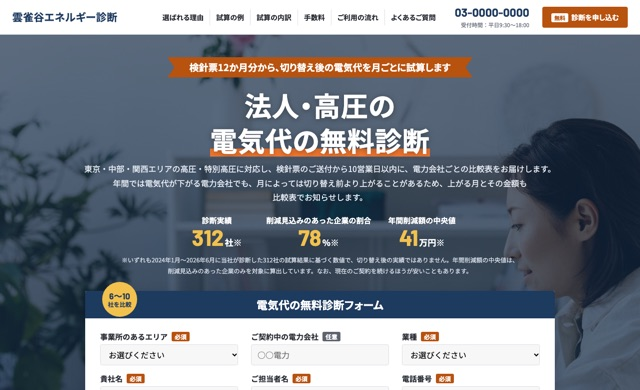
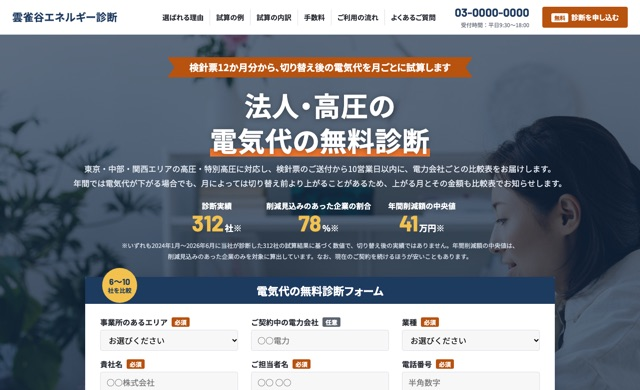
見本LP7案で、通読で引っかかった文を直す

diff --git a/lp-samples/sample8/index.html b/lp-samples/sample8/index.html
@@ -423,7 +423,7 @@ h1,h2,h3,p,li,dt,dd,summary{word-break:auto-phrase}
   <div class="mv-inner">
     <p class="catch">検針票<span class="nw">12か月</span>分から、<br class="pcnone"><span class="nw">切り替え</span>後の電気代を月ごとに試算します</p>
     <h1>法人・高圧の<br><span class="text-line">電気代の無料診断</span></h1>
-    <p class="lead">東京・中部・関西<span class="nw">エリア</span>の高圧・特別高圧に対応し、検針票のご送付から<span class="nw">10営業日</span>以内に、電力会社ごとの比較表をお届けします。<br class="smanone">年間では電気代が下がる電力会社でも、月によっては<span class="nw">切り替え</span>前より上がることがあるため、上がる月とその金額も比較表でお知らせします。</p>
+    <p class="lead">東京・中部・関西<span class="nw">エリア</span>の高圧・特別高圧に対応し、検針票のご送付から<span class="nw">10営業日</span>以内に、電力会社ごとの比較表をお届けします。<br class="smanone">年間では電気代が下がる場合でも、月によっては<span class="nw">切り替え</span>前より上がることがあるため、上がる月とその金額も比較表でお知らせします。</p>
     <ul class="mv-rewards">
       <li><p>診断実績<b>312<small>社※</small></b></p></li>
       <li><p>削減見込みのあった企業の割合<b>78<small>%※</small></b></p></li>
@@ -462,11 +462,11 @@ h1,h2,h3,p,li,dt,dd,summary{word-break:auto-phrase}
 <section class="topPage-about" id="about">
   <div class="section-container">
     <h2 class="title-base"><i class="fa-solid fa-bolt" aria-hidden="true"></i>雲雀谷エネルギー診断とは？</h2>
-    <p class="topPage-about-sentence">過去の検針票をもとに、法人の高圧・特別高圧の電気代を診断する会社です。<span class="nw">切り替え</span>た場合に月々の電気代がどう変わるかを、電力会社ごとに比較表で見比べて、使用状況に合った電力会社をお選びいただけます。</p>
+    <p class="topPage-about-sentence">過去の検針票をもとに、法人の高圧・特別高圧の電気代を診断する会社です。<span class="nw">切り替え</span>た場合に月々の電気代がどう変わるかを電力会社ごとに比較表でお示ししますので、使用状況に合った電力会社をお選びいただけます。</p>
     <p class="topPage-about-subTitle wow fadeInUp">料金体系は電力会社ごとに異なるため、<br class="pcnone">当社が同じ条件で各社の電気代を試算し、比較します。</p>
     <div class="topPage-about-mainContent">
       <div class="topPage-about-mainImg is-left wow fadeInUp">
-        <h3>ご自身で各社に問い合わせる場合</h3>
+        <h3>貴社で各社に問い合わせる場合</h3>
         <div class="step-block" role="img" aria-label="貴社が3社の電力会社へ1社ずつ問い合わせる図">
           <div class="step-block__cont">
             <p class="step-block__cont__item"><i class="fa-solid fa-building" aria-hidden="true"></i>貴社</p>
@@ -512,7 +512,7 @@ h1,h2,h3,p,li,dt,dd,summary{word-break:auto-phrase}
       <div>
         <p class="topPage-reason-contents-titlePoints">Point<b>02</b></p>
         <h3 class="topPage-reason-contents-title">当社の手数料率も公開</h3>
-        <p>当社は<span class="nw">切り替え</span>先の電力会社から手数料を受け取る仕組みのため、貴社のご負担はありません。「手数料の高い会社を勧められるのでは」とご心配な方は、比較表に掲載する各社の手数料率でご確認いただけます。電力会社の並び順も、手数料率ではなく年間の削減額が大きい順にしています。手数料率と上限額は「<a class="nw" href="#fee">手数料について</a>」に記載しています。</p>
+        <p>当社は<span class="nw">切り替え</span>先の電力会社から手数料を受け取る仕組みのため、貴社のご負担はありません。「手数料の高い会社を勧められるのでは」とご心配な方は、比較表に掲載する各社の手数料率をご確認いただけます。電力会社の並び順も、手数料率ではなく年間の削減額が大きい順にしています。手数料率と上限額は「<a class="nw" href="#fee">手数料について</a>」に記載しています。</p>
       </div>
       <figure><img src="img/sheet.jpg" alt="数字の並ぶ表をペンで指す手元と電卓" loading="lazy"></figure>
     </div>
@@ -763,9 +763,9 @@ h1,h2,h3,p,li,dt,dd,summary{word-break:auto-phrase}
       <details class="wow fadeInUp"><summary class="toggle_title">停電の心配はありますか？</summary><p class="faq_text">電力会社を<span class="nw">切り替え</span>ても、停電が起こりやすくなることはありません。送配電はこれまで通り地域の一般送配電事業者（電柱や送電線を管理する会社）が行うため、電気の品質や供給の安定性は変わりません。</p></details>
       <details class="wow fadeInUp"><summary class="toggle_title">電力会社の営業電話はありますか？</summary><p class="faq_text">電力会社から営業の電話がかかってくることはありません。貴社名とご連絡先を電力会社に伝えるのは、ご契約が決まったあとだけです。当社からの最初のご連絡は、お申し込みの翌営業日中にお送りする<span class="nw">メール</span>です。</p></details>
       <details class="wow fadeInUp"><summary class="toggle_title">提携先の電力会社はどこですか？</summary><p class="faq_text">各社との取り決めにより、<span class="nw">ウェブサイト</span>での社名の公表は控えていますが、比較表でお知らせします。提携先は<span class="nw">2026年8月</span>時点で<span class="nw">12社</span>あり、新電力が中心ですが、大手電力会社も含まれます。このうち、事業所のあるエリアで電気を販売し、貴社の契約電力で契約できる会社を比較します。</p></details>
-      <details class="wow fadeInUp"><summary class="toggle_title">希望の電力会社も比較できますか？</summary><p class="faq_text">当社の提携先のうち、貴社の事業所のあるエリアで高圧・特別高圧の契約を受け付けている会社であれば、比較に加えられます。ご希望の会社は、検針票をお送りいただく際にお知らせください。当社との提携の有無をお伝えします。</p></details>
+      <details class="wow fadeInUp"><summary class="toggle_title">希望の電力会社も比較できますか？</summary><p class="faq_text">当社の提携先のうち、貴社の事業所のあるエリアで高圧・特別高圧の契約を受け付けている会社であれば、比較対象に加えることができます。ご希望の会社は、検針票をお送りいただく際にお知らせください。当社との提携の有無を<span class="nw">お伝えします。</span></p></details>
       <details class="wow fadeInUp"><summary class="toggle_title">契約期間中でも試算できますか？</summary><p class="faq_text">はい、可能です。検針票と併せて、現在のご契約の期間と解約の条件が分かる書面をお送りください。途中で解約すると違約金がかかるご契約の場合は、その額を比較表に記載します。契約が満了する月に合わせて<span class="nw">切り替え</span>た場合の金額も、比較表でご確認いただけます。</p></details>
-      <details class="wow fadeInUp"><summary class="toggle_title"><span class="nw">デマンド</span>対策の効果はどのくらいですか？</summary><p class="faq_text">製造業の例では、<span class="nw">切り替え</span>前の基本料金が契約電力<span class="nw">1kW</span>あたり年間<span class="nw">約2万円</span>なので、契約電力が<span class="nw">10kW</span>下がると基本料金は年間<span class="nw">約20万円</span>安くなります。電気代に占める基本料金の割合が大きい事業所では、最大<span class="nw">デマンドを</span>抑えるだけでも電気代が下がります。ただし、<span class="nw">30分</span>間の平均使用電力が一度でも跳ね上がると、その値で<span class="nw">1年</span>間の基本料金が決まります。最大<span class="nw">デマンドを</span><span class="nw">1年</span>を通して抑えられる見込みがあれば、<span class="nw">デマンド</span>対策もあわせてご検討ください。</p></details>
+      <details class="wow fadeInUp"><summary class="toggle_title"><span class="nw">デマンド</span>対策の効果はどのくらいですか？</summary><p class="faq_text">製造業の例では、<span class="nw">切り替え</span>前の基本料金が契約電力<span class="nw">1kW</span>あたり年間<span class="nw">約2万円</span>なので、契約電力が<span class="nw">10kW</span>下がると基本料金は年間<span class="nw">約20万円</span>安くなります。電気代に占める基本料金の割合が大きい事業所では、最大<span class="nw">デマンドを</span>抑えるだけでも電気代が下がります。ただし、<span class="nw">30分</span>間の平均使用電力が一度でも跳ね上がると、その値で<span class="nw">1年</span>間の基本料金が決まります。<span class="nw">1年</span>を通して最大<span class="nw">デマンドを</span>抑えられる見込みがあれば、<span class="nw">デマンド</span>対策もあわせてご検討ください。</p></details>
       <details class="wow fadeInUp"><summary class="toggle_title">市場連動型の<span class="nw">プラン</span>も比較しますか？</summary><p class="faq_text">電気を多く使う時間帯によって判断します。市場連動型は卸電力市場の価格に合わせて単価が変わる<span class="nw">プラン</span>で、市場価格が高騰した月は電気代が高額になる<span class="nw">リスク</span>があります。深夜と早朝に電気を多く使う事業所であれば比較対象に含めますが、夕方に<span class="nw">ピーク</span>が来る事業所では電気代の振れ幅が大きくなるため含めません。比較対象に含める場合は、過去に市場価格が高騰した月の単価でも計算し、その金額も比較表に掲載します。</p></details>
       <details class="wow fadeInUp"><summary class="toggle_title">契約の内容は書面でもらえますか？</summary><p class="faq_text">はい。契約の締結前と締結後に、料金や契約期間を記した書面をお渡しします。書面の交付は、電気事業法（第2条の13・第2条の14）で、電力会社（小売電気事業者）と媒介を行う当社の双方に義務付けられています。書面は、経済産業省「電力の小売営業に関する指針」（令和<span class="nw">8年</span><span class="nw">4月9日</span>最終改定）に沿って作成しています。</p></details>
     </div>
@@ -822,7 +822,7 @@ h1,h2,h3,p,li,dt,dd,summary{word-break:auto-phrase}
     </dl>
     <div class="callout wow fadeInUp" id="privacy">
       <h3>個人情報の取り扱い</h3>
-      <p>お預かりした貴社名・ご担当者名・ご連絡先と<span class="nw">12か月</span>分の検針票は、電気代の試算のほか、<span class="nw">切り替え</span>の手続きについてのご連絡に利用します。試算に使う単価を電力会社に確認する際は、貴社名を伏せて行います。ご契約が決まった電力会社にだけ、契約の手続きに必要な範囲で貴社名とご連絡先を提供します。開示・訂正・削除のご請求は、お電話で承ります。</p>
+      <p>お預かりした貴社名・ご担当者名・ご連絡先と<span class="nw">12か月</span>分の検針票は、電気代の試算のほか、<span class="nw">切り替え</span>の手続きについてのご連絡に利用します。試算に使う単価は、貴社名を伏せて電力会社に確認します。ご契約が決まった電力会社にだけ、契約の手続きに必要な範囲で貴社名とご連絡先を提供します。開示・訂正・削除のご請求は、お電話で承ります。</p>
     </div>
   </div>
 </section>

diff --git a/lp-samples/sample4/index.html b/lp-samples/sample4/index.html
@@ -516,8 +516,8 @@ h1,h2,h3,blockquote,.wor2_item li,.check-list li,.vigor_item>div p{word-break:au
       <div class="scrollanime"><i class="fa-solid fa-calculator" aria-hidden="true"></i><h3>自動集計</h3><p>実働時間・残業時間・深夜労働・休日労働・休暇を従業員ごとに集計します。</p></div>
       <div class="scrollanime"><i class="fa-solid fa-circle-check" aria-hidden="true"></i><h3>申請・承認</h3><p>休暇・残業・打刻修正は<span class="nw">アプリ</span>から申請でき、管理者は管理画面で承認できます。</p></div>
       <div class="scrollanime"><i class="fa-solid fa-file-export" aria-hidden="true"></i><h3>給与<span class="nw">ソフト</span>へのCSV出力</h3><p>集計結果をCSVで出力します。列順や項目名などはお使いの給与<span class="nw">ソフト</span>に合わせて柔軟に設定できます。</p></div>
-      <div class="scrollanime"><i class="fa-solid fa-triangle-exclamation" aria-hidden="true"></i><h3>時間外労働の上限<span class="nw">チェック</span></h3><p>時間外労働が<span class="nw">月45時間</span>など<a href="#law">法令の上限</a>に近づいたときや超えたときは、その従業員を一覧で色分けして表示します。変形労働時間制や自動車運転の業務の上限にも対応しています。</p></div>
-      <div class="scrollanime"><i class="fa-solid fa-book" aria-hidden="true"></i><h3>年次有給休暇管理簿</h3><p>有給休暇を<span class="nw">年10日</span>以上付与した従業員には、<span class="nw">年5日</span>の取得が義務付けられています。基準日・日数・時季を記載した管理簿を管理画面から出力でき、取得日数が<span class="nw">5日</span>に満たない従業員の人数も確認できます。</p></div>
+      <div class="scrollanime"><i class="fa-solid fa-triangle-exclamation" aria-hidden="true"></i><h3>時間外労働の上限<span class="nw">チェック</span></h3><p>時間外労働が<span class="nw">月45時間</span>など<a href="#law">法令の上限</a>に近づいたときや上限を超えたときは、その従業員を一覧で色分けして表示します。変形労働時間制や自動車運転の業務の上限にも対応しています。</p></div>
+      <div class="scrollanime"><i class="fa-solid fa-book" aria-hidden="true"></i><h3>年次有給休暇管理簿</h3><p>有給休暇を<span class="nw">年10日</span>以上付与した従業員には、<span class="nw">年5日</span>を取得させることが義務付けられています。基準日・日数・時季を記載した管理簿を管理画面から出力でき、取得日数が<span class="nw">5日</span>に満たない従業員の人数も確認できます。</p></div>
       <div class="scrollanime"><i class="fa-solid fa-calendar-plus" aria-hidden="true"></i><h3>有給休暇の自動付与（<span class="nw">オプション</span>）</h3><p>入社日・勤続年数・出勤率をもとに付与日数を計算し、自動で付与します。比例付与にも対応しています。</p></div>
       <div class="scrollanime"><i class="fa-solid fa-calendar-week" aria-hidden="true"></i><h3><span class="nw">シフト</span>作成（<span class="nw">オプション</span>）</h3><p>希望休を反映した<span class="nw">シフト</span>表を作成できます。</p></div>
     </div>
@@ -575,8 +575,8 @@ h1,h2,h3,blockquote,.wor2_item li,.check-list li,.vigor_item>div p{word-break:au
       <table class="price-table__option">
         <thead><tr><th scope="col">項目</th><th scope="col">金額（税込）</th><th scope="col">備考</th></tr></thead>
         <tbody>
-          <tr><th scope="row"><span class="nw">11名</span>目以降のご利用</th><td><span class="nw">1名</span> <span class="nw">月330円</span></td><td><span class="nw">10名</span>を超えた人数分を基本料金に加算します。</td></tr>
-          <tr><th scope="row"><span class="nw">オプション</span>（有給休暇の自動付与・<span class="nw">シフト</span>作成）</th><td>それぞれ<span class="nw">1名</span> <span class="nw">月110円</span></td><td><span class="nw">オプション</span>料金は、お使いの<span class="nw">オプション</span>の分だけかかります。基本料金に含まれる<span class="nw">10名</span>分にもかかります。</td></tr>
+          <tr><th scope="row"><span class="nw">11名</span>目以降のご利用</th><td><span class="nw">1名</span> <span class="nw">月330円</span></td><td><span class="nw">10名</span>を超えた人数分の料金を、基本料金に加算します。</td></tr>
+          <tr><th scope="row"><span class="nw">オプション</span>（有給休暇の自動付与・<span class="nw">シフト</span>作成）</th><td>それぞれ<span class="nw">1名</span> <span class="nw">月110円</span></td><td><span class="nw">オプション</span>料金は、お使いの<span class="nw">オプション</span>についてだけかかり、基本料金に含まれる<span class="nw">10名</span>分も対象になります。</td></tr>
           <tr><th scope="row">給与<span class="nw">ソフト</span>へのCSV出力</th><td><span class="nw">0円</span></td><td>基本料金に含まれます。</td></tr>
           <tr><th scope="row">IC<span class="nw">カードリーダー</span></th><td>1拠点につき<span class="nw">1台</span>まで<span class="nw">0円</span></td><td><span class="nw">1台</span>目は無料で貸し出します。同じ拠点の<span class="nw">2台</span>目以降は、<span class="nw">1台</span>につき<span class="nw">月330円</span>です。</td></tr>
           <tr><th scope="row">初期費用（初期設定の代行）</th><td>労働時間制度<span class="nw">2種類</span>まで<span class="nw">0円</span></td><td>※労働時間制度は、固定時間制・<span class="nw">1か月</span>単位の変形労働時間制・<span class="nw">1年</span>単位の変形労働時間制・<span class="nw">フレックスタイム</span>制など、制度ごとに1種類と数えます。正社員と<span class="nw">パート</span>のように雇用形態が違っても、制度が同じなら1種類です。3種類以上の場合は、本契約時に<span class="nw">88,000円</span>（税込）がかかります。</td></tr>
@@ -598,7 +598,7 @@ h1,h2,h3,blockquote,.wor2_item li,.check-list li,.vigor_item>div p{word-break:au
     <h2 class="h2_ttl">導入までの流れ</h2>
     <div class="step_r">
       <div class="step_box scrollanime"><p class="step_box_icon"><small>STEP</small><b>01</b></p><div><h3>無料<span class="nw">トライアル</span>のお申し込み</h3><p><a href="#entry-form" data-kind="trial">申し込みフォーム</a>に会社名・お名前・<span class="nw">メールアドレス</span>・電話番号・<span class="nw">ご利用予定</span>の人数を入力するだけです。営業日の17時までのお申し込みなら、その日のうちに管理画面の<span class="nw">ログイン</span>情報をお送りします。</p></div></div>
-      <div class="step_box scrollanime"><p class="step_box_icon"><small>STEP</small><b>02</b></p><div><h3>初期設定の代行</h3><p>就業規則のPDFを、就業規則がない場合は雇用契約書や労働条件通知書を、管理画面から<span class="nw">アップロード</span>してください。書類をお預かりしてから通常<span class="nw">3営業日</span>ほどで、当社が初期設定を行います。</p></div></div>
+      <div class="step_box scrollanime"><p class="step_box_icon"><small>STEP</small><b>02</b></p><div><h3>初期設定の代行</h3><p>就業規則のPDFを管理画面から<span class="nw">アップロード</span>してください。就業規則がない場合は、代わりに雇用契約書や労働条件通知書を<span class="nw">アップロード</span>してください。書類をお預かりしてから通常<span class="nw">3営業日</span>ほどで、当社が初期設定を行います。</p></div></div>
       <p class="step_on">無料<span class="nw">トライアル</span>開始</p>
       <div class="step_box scrollanime"><p class="step_box_icon"><small>STEP</small><b>03</b></p><div><h3>まずは1部署から打刻を開始</h3><p>次の締め日まで、その部署で打刻を続けてみてください。締め作業が集計結果の確認と確定だけで終わるかどうかを、<span class="nw">トライアル</span>中にお確かめいただけます。</p></div></div>
       <p class="step_on"><span class="nw">トライアル</span>終了（<span class="nw">30日</span>目）</p>

diff --git a/lp-samples/sample2/index.html b/lp-samples/sample2/index.html
@@ -396,7 +396,7 @@ h1,h2,h3{text-wrap:balance}
           <h3 class="card__heading">季<small>とき</small></h3>
           <span class="card__badge">上生菓子詰合せ・冷蔵</span>
           <p class="price"><span class="nw">6個</span>入<span class="price-item">4,320円</span>（税込）<a class="card__order" href="#order">ご注文フォームへ</a></p>
-          <p class="rte">その月の上生菓子3種類を<span class="nw">2個</span>ずつ詰め合わせました。長月は月見（薯蕷饅頭）・桔梗（<span class="nw">練り切り</span>）・栗の子（栗きんとん）です。※原材料名とアレルゲンは長月の3種類の表示です。※写真は一例です。</p>
+          <p class="rte">その月の上生菓子3種類を<span class="nw">2個</span>ずつ詰め合わせました。長月は月見（薯蕷饅頭）・桔梗（<span class="nw">練り切り</span>）・栗の子（栗きんとん）です。※原材料名とアレルゲンは、長月の3種類について表示しています。※写真は一例です。</p>
           <dl>
             <div><dt>原材料名</dt><dd><span class="nw">白いんげん豆</span>（手亡豆）、砂糖、小豆、栗、やまいも、米粉／着色料（<span class="nw">紅麹</span>、<span class="nw">クチナシ</span>）</dd></div>
             <div><dt>アレルゲン</dt><dd>特定原材料等のうち、使用しているのは薯蕷饅頭のやまいもだけです。本品製造工場では、小麦・卵を含む製品を製造しております。</dd></div>
@@ -447,7 +447,7 @@ h1,h2,h3{text-wrap:balance}
       <div class="image-with-text__content ani-block">
         <h3>のし紙・掛け紙と名入れは無料です</h3>
         <p>お中元・お歳暮などのご進物の際は、<a href="#order">ご注文フォーム</a>にご用途と名入れのご希望をご記入ください。表書きはご用途に合わせて当店でお入れいたします。</p>
-        <p>掛け方は内のしも外のしも承ります。内のしは箱に直接<span class="nw">のし紙</span>を掛け、その上から包装紙で包むので、配送の途中で<span class="nw">のし紙</span>が汚れたり破れたりしにくくなります。お送りになる場合は、内のしをおすすめしております。外のしは箱を包装紙で包んだ上から<span class="nw">のし紙</span>を掛けるので、<span class="nw">表書き</span>が外から見えます。お手渡しの場合は、外のしが一般的です。お迷いの際は、ご注文<span class="nw">フォーム</span>で「当店におまかせ」をお選びください。</p>
+        <p>掛け方は内のしも外のしも承ります。内のしは箱に直接<span class="nw">のし紙</span>を掛け、その上から包装紙で包むので、配送の途中で<span class="nw">のし紙</span>が汚れたり破れたりしにくくなります。配送でお贈りになる場合は、内のしをおすすめしております。外のしは箱を包装紙で包んだ上から<span class="nw">のし紙</span>を掛けるので、<span class="nw">表書き</span>が外から見えます。お手渡しの場合は、外のしが一般的です。お迷いの際は、ご注文<span class="nw">フォーム</span>で「当店におまかせ」をお選びください。</p>
         <p>ご法要やお盆・お彼岸のお供え、そのお返しには、弔事用の掛け紙をご用意しております。水引は黒白・黄白の結び切りで、表書きには「御供」「志」「粗供養」などをお入れいたします。水引の色は地域により異なる場合がございますので、お電話でのご相談を承っております。</p>
         <p>「法要のお返しに選びました。掛け紙の表書きをお店に相談したところ、うちの地域のしきたりまで教えていただきました」<cite><span class="nw">2025年3月</span>・50代のお客様</cite></p>
       </div>
@@ -532,7 +532,7 @@ h1,h2,h3{text-wrap:balance}
   <div class="page-width">
     <div class="title-wrapper ani-block"><h2 class="title">よくあるご質問</h2><span class="sub-title">FAQ</span></div>
     <div class="sysContent">
-      <div class="txtBlock ani-block"><h3 class="pattern01">1．お届け日と時間帯を指定できますか？</h3><p>はい、お届け日はご注文日の<span class="nw">5日</span>後から、時間帯とあわせて<a href="#order">ご注文フォーム</a>でご指定いただけます。なお、「季」を関東・山梨・静岡・長野（長野市などは18時以降）・九州（福岡を除く）などへお届けする場合は、14時以降の時間帯をお選びください。</p></div>
+      <div class="txtBlock ani-block"><h3 class="pattern01">1．お届け日と時間帯を指定できますか？</h3><p>はい、お届け日と時間帯は、<a href="#order">ご注文フォーム</a>でご指定いただけます。お届け日は、ご注文日の<span class="nw">5日</span>後からお選びいただけます。なお、「季」を関東・山梨・静岡・長野・九州（福岡を除く）などへお届けする場合は、14時以降の時間帯をお選びください。長野県のうち長野市などへは、18時以降の時間帯をお選びください。</p></div>
       <div class="txtBlock ani-block"><h3 class="pattern01">2．上生菓子詰合せ「季」の中身を変えることはできますか？</h3><p>「季」はその月の上生菓子3種類を<span class="nw">2個</span>ずつ詰め合わせた品のため、中身のご変更は承っておりません。<span class="nw">召し上がれない</span>食材がございましたら、ご注文の前にお電話でご相談ください。</p></div>
       <div class="txtBlock ani-block"><h3 class="pattern01">3．領収書は発行できますか？</h3><p>領収書がご入用の場合は、ご注文<span class="nw">フォーム</span>の備考欄に宛名と<span class="nw">但し書き</span>をご記入ください。ご注文者様のご住所へお届けする場合は商品に同封し、別のお届け先へお送りする場合は、ご注文者様宛に別途郵送いたします。領収書には適格請求書発行事業者登録番号を記載いたします。</p></div>
       <div class="txtBlock ani-block"><h3 class="pattern01">4．複数のお届け先に送れますか？</h3><p>はい、承っております。ご注文<span class="nw">フォーム</span>に入力できるお届け先は<span class="nw">1回</span>につき<span class="nw">1件</span>ですので、お手数ですがお届け先ごとにご注文ください。送料もお届け先ごとにかかります。お電話でもご相談いただけます。</p></div>
@@ -573,7 +573,7 @@ h1,h2,h3{text-wrap:balance}
           <div class="cart-top-date"><label for="date">お届け日<span class="noshi-required">必須</span></label><input id="date" type="text" name="attributes[配送希望日]" value="" placeholder="日付をお選びください" readonly required></div>
           <div class="cart-top-time"><p class="cart-attribute__field"><label for="o-time">時間帯<span class="light">任意</span></label><select id="o-time" name="attributes[配送時間帯]"><option value="指定なし">指定なし</option><option value="0812">午前中</option><option value="1416">14〜16時</option><option value="1618">16〜18時</option><option value="1820">18〜20時</option><option value="1921">19〜21時</option></select></p></div>
         </div>
-        <p class="instructions">「季」を関東・山梨・静岡・長野（長野市などは18時以降）・九州（福岡を除く）などへお届けする場合は、14時以降の時間帯をお選びください。</p>
+        <p class="instructions">「季」を関東・山梨・静岡・長野・九州（福岡を除く）などへお届けする場合は、14時以降の時間帯をお選びください。長野県のうち長野市などへは、18時以降の時間帯をお選びください。</p>
         <fieldset>
           <legend>ご注文者様</legend>
           <label for="o-name">お名前<span class="noshi-required">必須</span></label>

diff --git a/lp-samples/sample3/index.html b/lp-samples/sample3/index.html
@@ -438,7 +438,7 @@ h1,h2,h3{text-wrap:balance}
       <div class="swell-block-column reveal">
         <h3><span class="nw">J-FLEC</span>の認定<span class="nw">アドバイザー</span></h3>
         <img src="img/desk.jpg" alt="赤いファイルの上の白い紙に、ペンで書き込む手" loading="lazy">
-        <p>代表は金融経済教育推進機構（<span class="nw">J-FLEC</span>）の認定<span class="nw">アドバイザー</span>です。この認定は、金融機関に所属せず、金融商品の販売も行っていない方に限られるため、中立の立場でご相談をお受けしていることの裏付けにもなります。代表が認定を受けていることは、<a href="https://www.j-flec.go.jp/advisors/search/">認定アドバイザー検索</a>でご確認いただけます。当事務所のご相談には、<a href="#price"><span class="nw">J-FLEC</span>の割引クーポン</a>をお使いいただくこともできます。</p>
+        <p>代表は金融経済教育推進機構（<span class="nw">J-FLEC</span>）の認定<span class="nw">アドバイザー</span>です。この認定を受けられるのは、金融機関に所属せず、金融商品の販売も行っていない方に限られるため、中立の立場でご相談をお受けしていることの裏付けにもなります。代表が認定を受けていることは、<a href="https://www.j-flec.go.jp/advisors/search/">認定アドバイザー検索</a>でご確認いただけます。当事務所のご相談には、<a href="#price"><span class="nw">J-FLEC</span>の割引クーポン</a>をお使いいただくこともできます。</p>
       </div>
       <div class="swell-block-column reveal">
         <h3><span class="nw">オンライン</span>相談にも対応</h3>
@@ -474,7 +474,7 @@ h1,h2,h3{text-wrap:balance}
         <p class="has-border">初回相談<span class="nw">11,000円</span>−割引<span class="nw">8,000円</span>＝ご負担<span class="nw">3,000円</span><br>（<span class="nw">11,000円</span>×<span class="nw">80%</span>＝<span class="nw">8,800円</span>が上限の<span class="nw">8,000円</span>を超えるため、割引は<span class="nw">8,000円</span>です）</p>
       </div>
     </div>
-    <p class="wp-block-paragraph">初回相談のあと、家計・教育資金・老後資金のご相談は「<span class="nw">キャッシュフロー</span>表の作成」へ、住宅のご相談は「住宅購入の試算」へ、保険・資産運用のご相談は「継続相談」へお進みいただきます。</p>
+    <p class="wp-block-paragraph">初回相談のあとは、家計・教育資金・老後資金のご相談なら「<span class="nw">キャッシュフロー</span>表の作成」、住宅のご相談なら「住宅購入の試算」、保険・資産運用のご相談なら「継続相談」へお進みいただきます。</p>
     <table class="reveal">
       <tr><th scope="row">継続相談</th><td><b><span class="nw">60分</span><span class="nw">11,000円</span>／<span class="nw">90分</span><span class="nw">16,500円</span></b><small>初回相談のあとも続けてお話を伺います。保険・資産運用のご相談のほか、表をお渡ししたあとの<span class="nw">アフターフォロー</span>にもお使いいただけます。</small></td></tr>
       <tr><th scope="row"><span class="nw">キャッシュフロー</span>表の作成</th><td><b><span class="nw">33,000円</span></b><small>初回相談から<span class="nw">1か月</span>以内にご依頼の場合は、この料金から初回相談でお支払いいただいた額を差し引きます。</small></td></tr>
@@ -493,7 +493,7 @@ h1,h2,h3{text-wrap:balance}
         <div class="wp-block-media-text__media"><i class="fa-solid fa-calendar-check" aria-hidden="true"></i></div>
       </div>
       <div class="wp-block-media-text reveal">
-        <div class="wp-block-media-text__content"><h3 class="wp-block-heading"><span>Step2</span><span class="nw">初回相談</span></h3><p>初回相談で今のお困りごとやご家族の状況を伺います。そのあとは、ご相談の内容に合わせて、<span class="nw">キャッシュフロー</span>表の作成か住宅購入の試算をご依頼いただくか、継続相談をお選びいただけます。</p></div>
+        <div class="wp-block-media-text__content"><h3 class="wp-block-heading"><span>Step2</span><span class="nw">初回相談</span></h3><p>初回相談で今のお困りごとやご家族の状況を伺います。そのあとは、ご相談の内容に合わせて、<span class="nw">キャッシュフロー</span>表の作成・住宅購入の試算・継続相談のいずれかをお選びいただけます。</p></div>
         <div class="wp-block-media-text__media"><i class="fa-solid fa-comments" aria-hidden="true"></i></div>
       </div>
       <div class="wp-block-media-text reveal">

diff --git a/lp-samples/sample1/index.html b/lp-samples/sample1/index.html
@@ -543,7 +543,7 @@ h1,h2,h3{word-break:auto-phrase}
       </div>
     </div>
     <div class="facility01">
-      <figure class="facility02 scroll fadein"><img src="img/kamado.jpg" alt="土間に残る竈と羽釜" loading="lazy"><figcaption><b>土間の竈</b>家が建てられた当時のまま残した竈で、いまは火を入れておりません。</figcaption></figure>
+      <figure class="facility02 scroll fadein"><img src="img/kamado.jpg" alt="土間に残る竈と羽釜" loading="lazy"><figcaption><b>土間の竈</b>家が建てられた当時のまま残した竈です。いまは火を入れておりません。</figcaption></figure>
       <dl class="facility02 scroll fadein">
         <div><dt>囲炉裏の間</dt><dd>家の中心にある部屋で、囲炉裏には毎日主人が火を入れています。1泊2食付のお客様は、この部屋で夕食を<span class="nw">お召し上がり</span>いただけます。</dd></div>
         <div><dt>間取り</dt><dd>平屋の建物で、寝室3部屋のほかに、<span class="nw">囲炉裏の間</span>、土間、台所、檜風呂、縁側がございます。</dd></div>
@@ -627,7 +627,7 @@ h1,h2,h3{word-break:auto-phrase}
   <div class="wrapper _news">
     <h2 class="section-tit scroll fadein">お知らせ</h2>
     <ul class="_news__wrap scroll fadein">
-      <li><time datetime="2026-09-01"><span class="nw">2026年9月1日</span></time><p>年末年始のご予約受付｜<span class="nw">12月29日</span>から<span class="nw">1月3日</span>までのご宿泊を承っております。</p></li>
+      <li><time datetime="2026-09-01"><span class="nw">2026年9月1日</span></time><p>年末年始のご予約受付｜<span class="nw">12月29日</span>から<span class="nw">1月3日</span>までのご宿泊のご予約を承っております。</p></li>
       <li class="home-news__item"><div><time datetime="2026-08-20"><span class="nw">2026年8月20日</span></time><p>新米のご案内｜集落の棚田では、9月の末に稲刈りがあります。10月のご宿泊からは、この棚田でとれた新米をお出しします。</p></div><img src="img/hazekake.jpg" alt="稲刈り後の棚田のはぜ掛け" loading="lazy"></li>
       <li><time datetime="2026-05-15"><span class="nw">2026年5月15日</span></time><p>長野県宿泊税のお知らせ｜<span class="nw">6月1日</span>のご宿泊分から、宿泊税を申し受けます。詳しくは<a class="nw" href="#tax">施設概要の宿泊税欄</a>をご覧ください。</p></li>
     </ul>

diff --git a/lp-samples/sample7/index.html b/lp-samples/sample7/index.html
@@ -499,7 +499,7 @@ h1,h2,h3{text-wrap:balance}
   <div class="container">
     <h2 class="headLine01"><span>FIRST VISIT</span>初診相談の流れ</h2>
     <ol class="omt-flow-cards">
-      <li class="fadeInUp"><b class="omt-flow-dot-circle">STEP1</b><h3>ご希望のお聞き取り</h3><p>気になっている歯並びのことや、ご予算、通いやすい曜日などを伺います。</p></li>
+      <li class="fadeInUp"><b class="omt-flow-dot-circle">STEP1</b><h3>ご希望の確認</h3><p>気になっている歯並びのことや、ご予算、通いやすい曜日などを伺います。</p></li>
       <li class="fadeInUp"><b class="omt-flow-dot-circle">STEP2</b><h3>お口の中の確認と写真の撮影</h3><p>お口の中を拝見し、歯並びを正面と側面から撮影します。X線写真の撮影は精密検査の日に行います。</p></li>
       <li class="fadeInUp"><b class="omt-flow-dot-circle">STEP3</b><h3>治療方法のご説明</h3><p>確認した歯並びをもとに、考えられる治療<span class="nw">方法</span>をご説明します。全体矯正にするか部分矯正にするか、どの装置を使うかは、精密検査の結果をご覧になってからお決めいただけます。</p></li>
       <li class="fadeInUp"><b class="omt-flow-dot-circle">STEP4</b><h3>お見積りのお渡し</h3><p>お見積りには、総額・治療期間・通院回数のほか、抜歯が必要な場合の費用や、治療を中止した場合の精算・返金の<span class="nw">方法</span>も記載しています。</p></li>

diff --git a/lp-samples/sample5/index.html b/lp-samples/sample5/index.html
@@ -418,7 +418,7 @@ h2,h3,.hero-lead,.type_recommend li,.type_tab_cont dd b,.faq_define>div dt,.faq_
       <div class="outline_card fade-in">
         <ul class="outline_card_list"><li><span class="nw">3か月</span>目</li><li><span class="nw">8回</span></li></ul>
         <h3><span class="nw">アプリ</span>を公開する</h3>
-        <p>仕事や暮らしの中から題材を選び、たとえば業務の手間を減らす<span class="nw">アプリ</span>を自分で開発します。<span class="nw">コード</span>を管理するGitとGitHubの使い方も学び、完成した<span class="nw">アプリ</span>はRenderという<span class="nw">サービス</span>で公開します。最終回は作った<span class="nw">アプリ</span>の発表会です。</p>
+        <p>仕事や暮らしの中から題材を選び、業務の手間を減らす<span class="nw">アプリ</span>などを自分で開発します。<span class="nw">コード</span>を管理するGitとGitHubの使い方も学び、完成した<span class="nw">アプリ</span>はRenderという<span class="nw">サービス</span>で公開します。最終回は作った<span class="nw">アプリ</span>の発表会です。</p>
         <p class="outline_card_text01">学ぶこと<br><span>Git</span><span>GitHub</span><span>Render</span></p>
       </div>
     </div>
